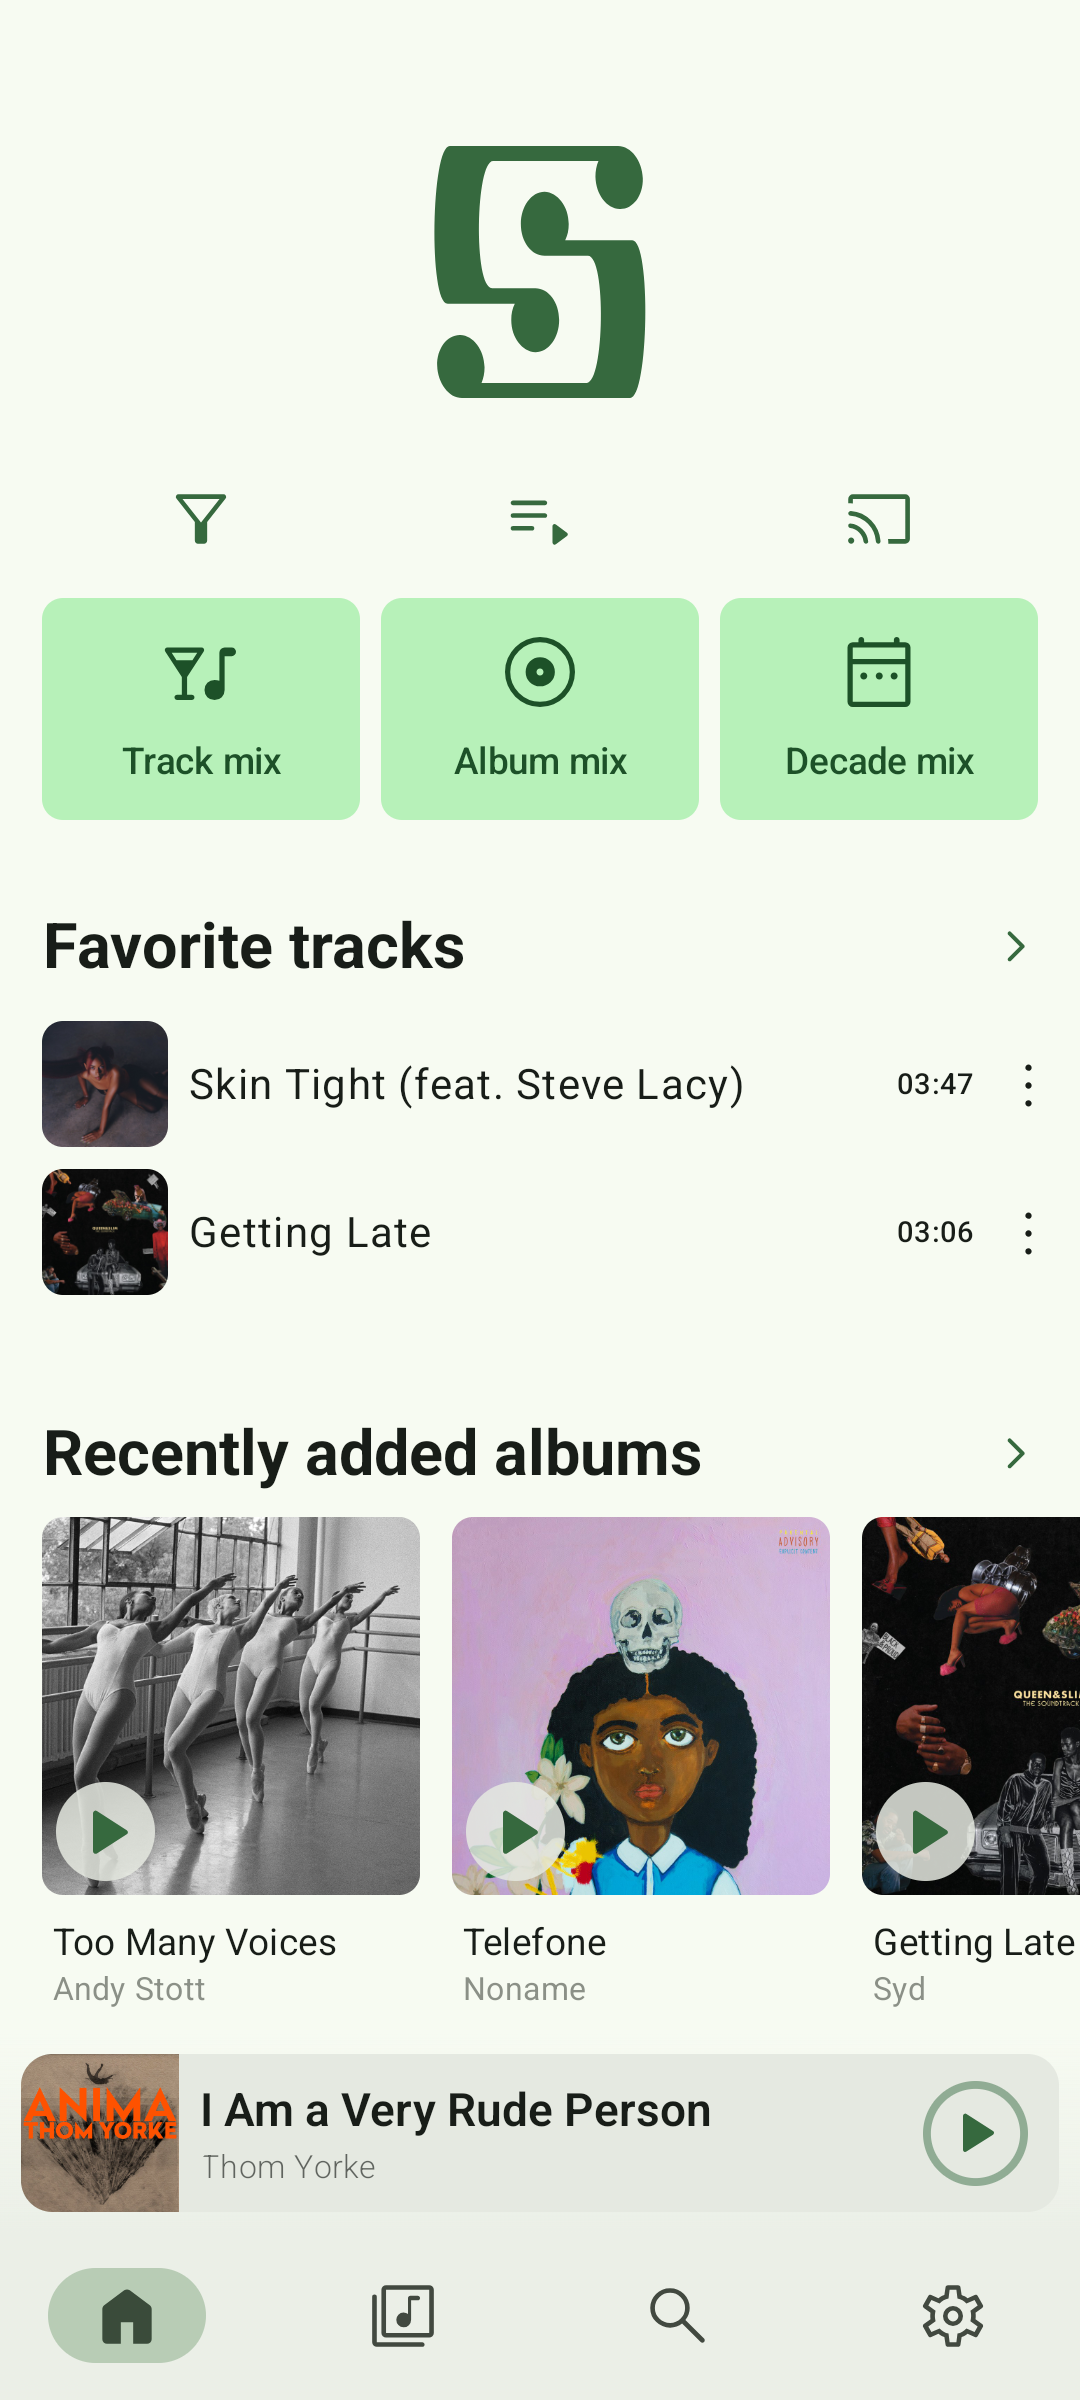
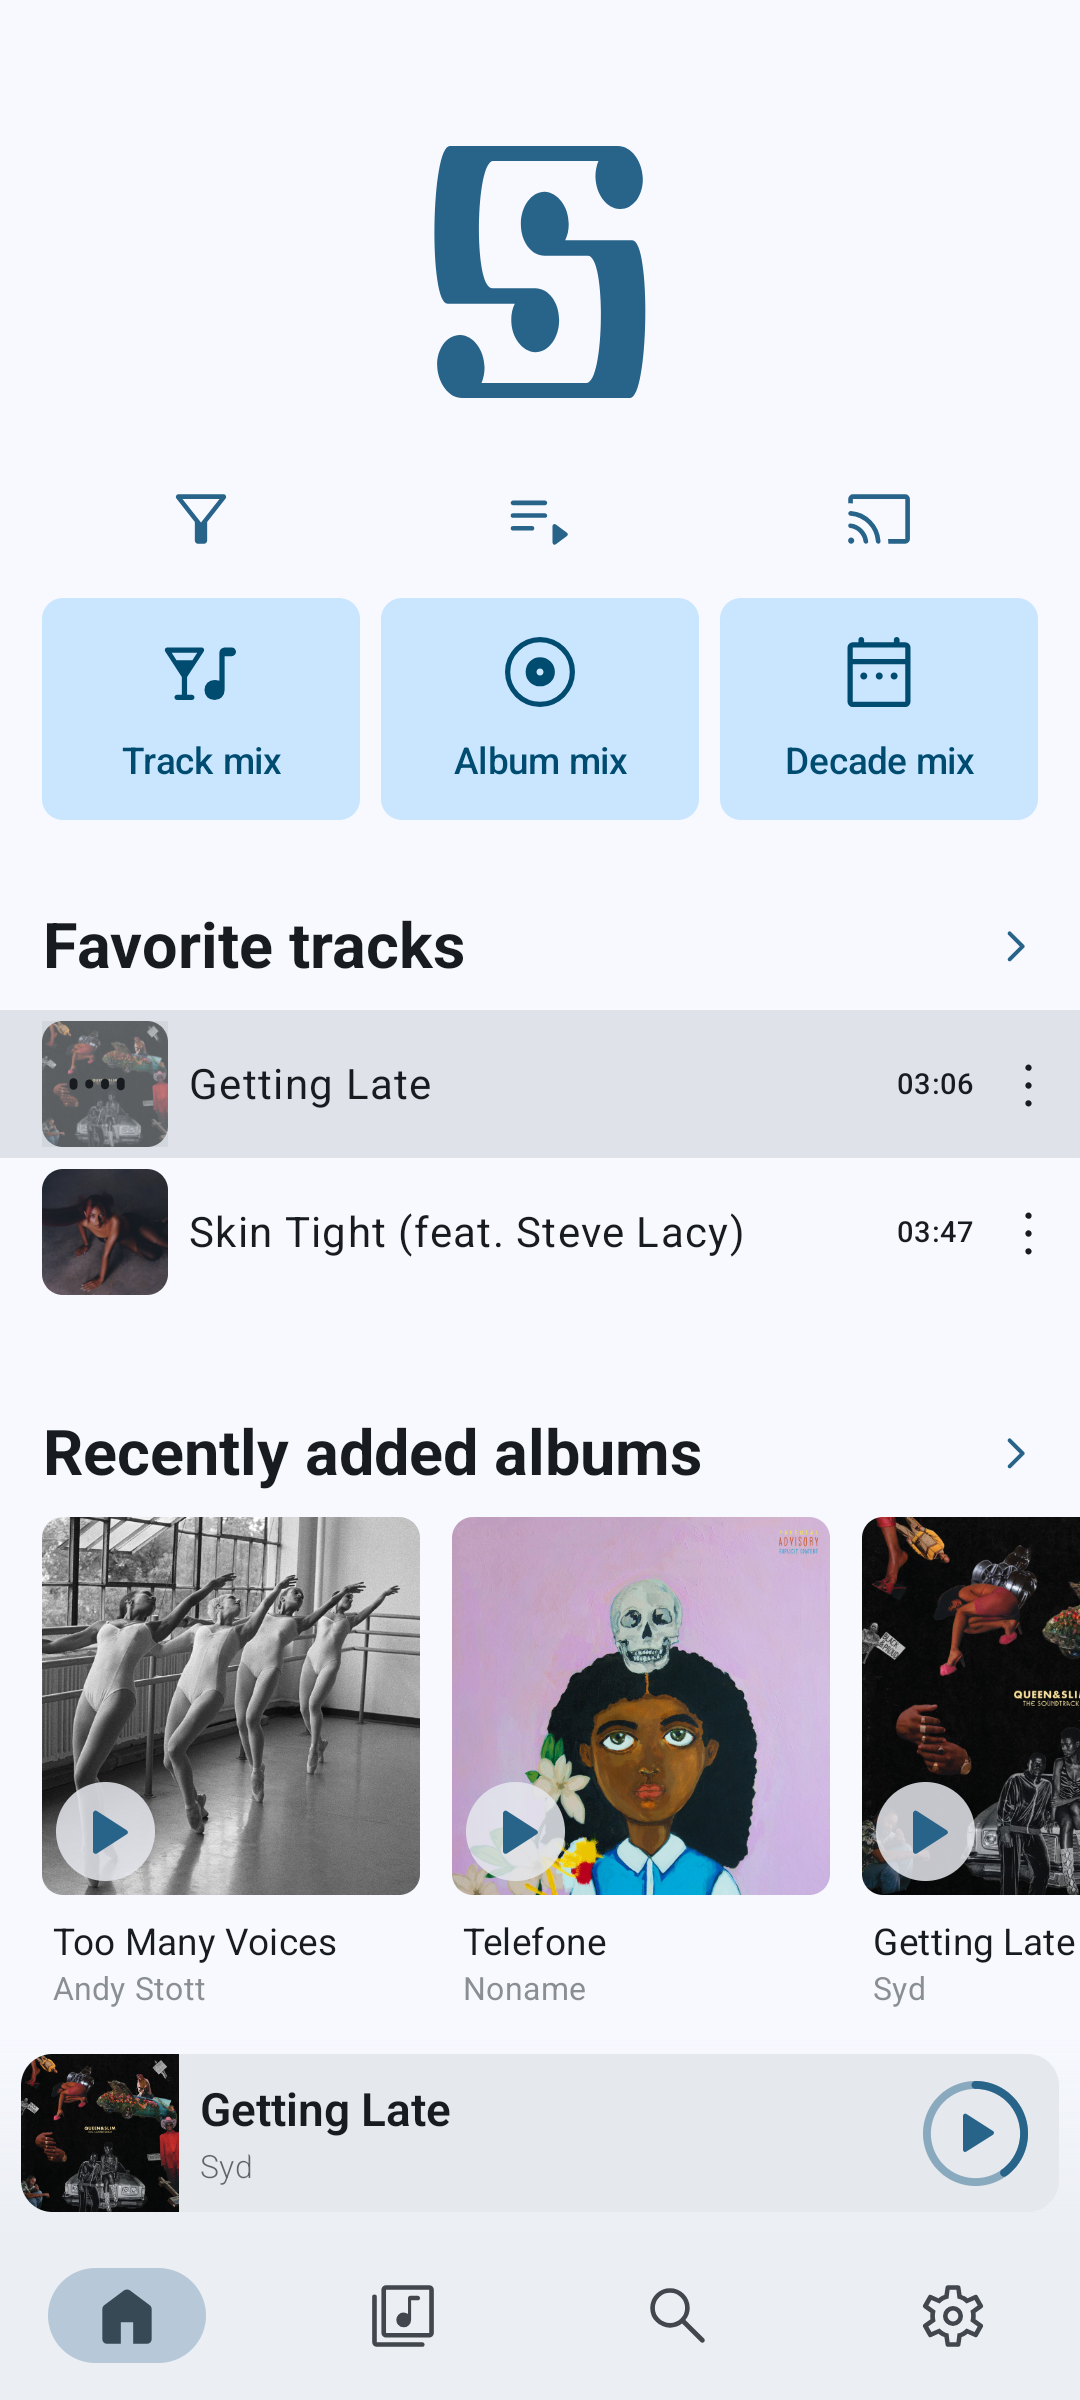
feat(theme): switch day scheme to blue day
Replace the green day scheme with the blue day scheme (sea blue primary, sky containers, violet tertiary) so the day mode shares the night scheme's blue lineage. Play-triangle and band-safe selection adaptations are retained; all text pairings pass WCAG AA. README palette/contrast tables and the day screenshot updated to match.

diff --git a/themes/friedrich/README.md b/themes/friedrich/README.md
@@ -1,16 +1,11 @@
 # friedrich
 
 A dual-identity theme for [Symfonium](https://symfonium.app/) (app version > v12): **indigo
-night, green day**. The dark scheme is deep indigo with soft periwinkle accents — quiet,
-legible, easy on the eyes at night. The light scheme is a green Material day scheme with deep
-green actions, pale green containers, and a teal tertiary. Both live in one file; the app's
-Theme mode decides which one you see.
-
-## Preview
-
-| Night | Day |
-| ----- | --- |
-| ![friedrich in dark mode](screenshots/dark.png) | ![friedrich in light mode](screenshots/light.png) |
+night, blue day**. The dark scheme is deep indigo with soft periwinkle accents — quiet,
+legible, easy on the eyes at night. The light scheme is a blue Material day scheme with
+sea-blue actions, pale sky containers, and a violet tertiary — sharing the night scheme's
+blue lineage for continuity across modes. Both live in one file; the app's Theme mode decides
+which one you see.
 
 ## Import
 
@@ -21,6 +16,12 @@ Theme mode decides which one you see.
 
 While evaluating the theme, turn off **Now playing color source** / dynamic artwork colors —
 they override theme colors on the playback screen.
+
+## Preview
+
+| Night | Day |
+| ----- | --- |
+| ![friedrich in dark mode](screenshots/dark.png) | ![friedrich in light mode](screenshots/light.png) |
 
 ## Palette
 
@@ -43,14 +44,14 @@ they override theme colors on the playback screen.
 
 | Hex | Role in the theme |
 | ------- | ----------------- |
-| `#f7fbf2` | Base surface (background) |
-| `#ffffff` → `#f1f5ec` → `#ebefe7` → `#e5e9e1` → `#e0e4db` | Surface ladder (lowest → highest) |
-| `#181d18` / `#424940` | Primary / secondary text |
-| `#727970` / `#c1c9be` | Borders / active-row fill |
-| `#36693e` | Green (deep) — logo, primary actions, play-overlay icon, separators |
-| `#b7f1b9` | Green (pale) — mix cards |
-| `#b8ccb5` | Green (mid) — search bar, selected chips, nav pill |
-| `#39656c` / `#bdeaf3` | Teal — tertiary accents, drag-and-drop controls |
+| `#f7f9ff` | Base surface (background) |
+| `#ffffff` → `#f1f4f9` → `#ebeef3` → `#e5e8ed` → `#e0e3e8` | Surface ladder (lowest → highest) |
+| `#181c20` / `#41474d` | Primary / secondary text |
+| `#72787e` / `#c1c7ce` | Borders / active-row fill |
+| `#28638a` | Sea blue — logo, primary actions, play-overlay icon, separators |
+| `#cae6ff` | Sky blue — mix cards |
+| `#b7c9d9` | Blue (mid) — search bar, selected chips, nav pill |
+| `#65587b` / `#ebdcff` | Violet — tertiary accents, drag-and-drop controls |
 | `#ba1a1a` / `#ffdad6` | Red — errors and warnings |
 
 ### Reserved (unused in both schemes)
@@ -59,57 +60,60 @@ they override theme colors on the playback screen.
 | ------- | ------ |
 | `#b493b8` / `#c9a9cd` | Mauve |
 | `#d0b483` / `#e0c79a` | Gold |
+| `#8fb3b3` / `#a3c7c7` | Teal |
 
 ## Role mapping
 
-The two schemes have distinct identities; each role is mapped per scheme.
+The two schemes share a blue lineage; each role is mapped per scheme.
 
 | Role | Night | Day |
 | ---- | ----- | --- |
-| `surface` | `#333344` | `#f7fbf2` |
+| `surface` | `#333344` | `#f7f9ff` |
 | `surfaceContainerLowest` | `#2a2a38` | `#ffffff` |
-| `surfaceContainerLow` | `#333344` | `#f1f5ec` |
-| `surfaceContainer` | `#3e3e52` ᵈ | `#ebefe7` |
-| `surfaceContainerHigh` | `#4a4a60` | `#e5e9e1` |
-| `surfaceContainerHighest` | `#55556a` | `#e0e4db` |
-| `surfaceVariant` | `#4a4a60` | `#dde5d9` |
-| `onSurface` | `#ffeeee` | `#181d18` |
-| `onSurfaceVariant` | `#c9c9d1` | `#424940` |
-| `outline` | `#83839c` ᵈ | `#727970` |
-| `outlineVariant` | `#4a4a60` | `#c1c9be` |
-| `primary` / `onPrimary` | `#aabbdd` / `#333344` | `#36693e` / `#ffffff` |
-| `primaryContainer` / `onPrimaryContainer` | `#c3cee6` / `#333344` | `#b7f1b9` / `#1d5128` |
-| `secondary` / `onSecondary` | `#aabbdd` / `#333344` | `#36693e` / `#ffffff` |
-| `secondaryContainer` / `onSecondaryContainer` | `#55556a` / `#ffeeee` | `#b8ccb5` / `#3a4b3a` |
-| `tertiary` / `onTertiary` | `#8fb08a` / `#333344` | `#39656c` / `#ffffff` |
-| `tertiaryContainer` / `onTertiaryContainer` | `#a3c49d` / `#333344` | `#bdeaf3` / `#1f4d54` |
+| `surfaceContainerLow` | `#333344` | `#f1f4f9` |
+| `surfaceContainer` | `#3e3e52` ᵈ | `#ebeef3` |
+| `surfaceContainerHigh` | `#4a4a60` | `#e5e8ed` |
+| `surfaceContainerHighest` | `#55556a` | `#e0e3e8` |
+| `surfaceVariant` | `#4a4a60` | `#dde3ea` |
+| `onSurface` | `#ffeeee` | `#181c20` |
+| `onSurfaceVariant` | `#c9c9d1` | `#41474d` |
+| `outline` | `#83839c` ᵈ | `#72787e` |
+| `outlineVariant` | `#4a4a60` | `#c1c7ce` |
+| `primary` / `onPrimary` | `#aabbdd` / `#333344` | `#28638a` / `#ffffff` |
+| `primaryContainer` / `onPrimaryContainer` | `#c3cee6` / `#333344` | `#cae6ff` / `#004b70` |
+| `secondary` / `onSecondary` | `#aabbdd` / `#333344` | `#28638a` / `#ffffff` |
+| `secondaryContainer` / `onSecondaryContainer` | `#55556a` / `#ffeeee` | `#b7c9d9` / `#384956` |
+| `tertiary` / `onTertiary` | `#8fb08a` / `#333344` | `#65587b` / `#ffffff` |
+| `tertiaryContainer` / `onTertiaryContainer` | `#a3c49d` / `#333344` | `#ebdcff` / `#4d4162` |
 | `error` / `onError` | `#c97a7e` / `#1c1c28` ᵈ | `#ba1a1a` / `#ffffff` |
 | `errorContainer` / `onErrorContainer` | `#d98f92` / `#333344` | `#ffdad6` / `#93000a` |
 
 ᵈ = derived tone in the night scheme; every other value is a palette value as-is. Two notes:
-`secondary`/`onSecondary` carry the **logo color** of each scheme (periwinkle at night, deep
-green by day) — the play-overlay triangle always matches the big logo and the mini-player
+`secondary`/`onSecondary` carry the **logo color** of each scheme (periwinkle at night, sea
+blue by day) — the play-overlay triangle always matches the big logo and the mini-player
 play button, and stays visible over its scheme's cover scrim. In the day scheme,
 `secondaryContainer` additionally sits one step deeper than the standard container tone so the
 search bar stays visible against header bands.
 
 ## Contrast (WCAG 2.2)
 
-Every text pairing in both schemes passes **AA** (4.5:1) or better; most pass **AAA** (7:1).
+Every text pairing in both schemes passes **AA** (4.5:1) or better; many pass **AAA** (7:1).
 
 | Pairing | Night | Day |
 | ------- | ----- | --- |
-| `onSurface` / `surface` | 11.02:1 | 16.32:1 |
-| `onSurfaceVariant` / `surface` | 7.52:1 | 8.87:1 |
-| `onSurface` / `surfaceContainerHighest` | 6.47:1 | 13.27:1 |
-| `onPrimary` / `primary` | 6.40:1 | 6.47:1 |
-| `onPrimaryContainer` / `primaryContainer` | 7.83:1 | 7.21:1 |
-| `onSecondary` / `secondary` | 6.40:1 | 6.47:1 |
-| `onSecondaryContainer` / `secondaryContainer` | 6.47:1 | 5.49:1 |
+| `onSurface` / `surface` | 11.02:1 | 16.27:1 |
+| `onSurfaceVariant` / `surface` | 7.52:1 | 8.93:1 |
+| `onSurface` / `surfaceContainerHighest` | 6.47:1 | 13.32:1 |
+| `onPrimary` / `primary` | 6.40:1 | 6.48:1 |
+| `onPrimaryContainer` / `primaryContainer` | 7.83:1 | 7.26:1 |
+| `onSecondary` / `secondary` | 6.40:1 | 6.48:1 |
+| `onSecondaryContainer` / `secondaryContainer` | 6.47:1 | 5.48:1 |
+| `onTertiary` / `tertiary` | 5.15:1 | 6.49:1 |
+| `onTertiaryContainer` / `tertiaryContainer` | 6.44:1 | 7.21:1 |
 | `onError` / `error` | 5.27:1 | 6.46:1 |
 | `onErrorContainer` / `errorContainer` | 4.89:1 | 7.24:1 |
 
-Functional borders (`outline`) meet the 3:1 non-text threshold (3.35:1 night, 4.28:1 day).
+Functional borders (`outline`) meet the 3:1 non-text threshold (3.35:1 night, 4.24:1 day).
 Deliberate exceptions: night borders on the highest containers sit at 2.0–2.8:1; the
 active-row highlight is intentionally quiet in both schemes (1.44 / 1.62:1) — the playing row
 is also identified by playback icons, never by color alone.
